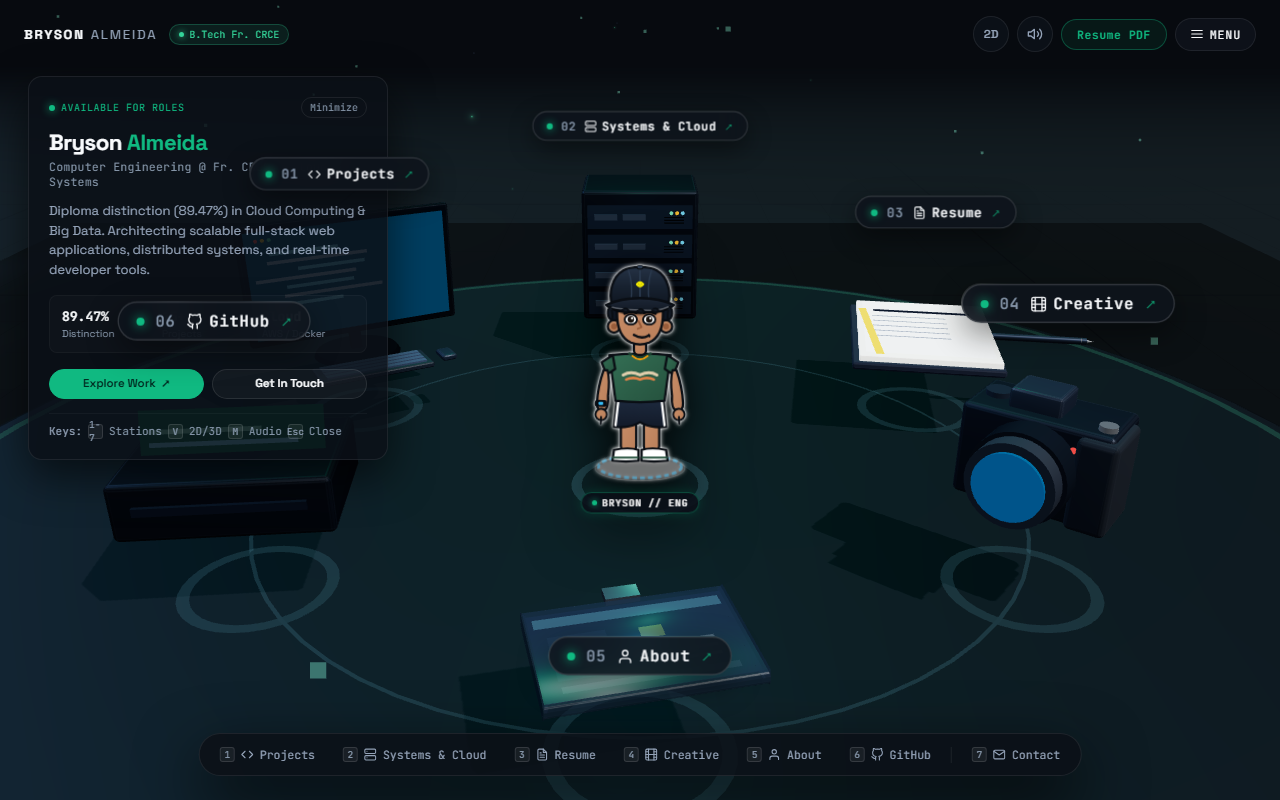
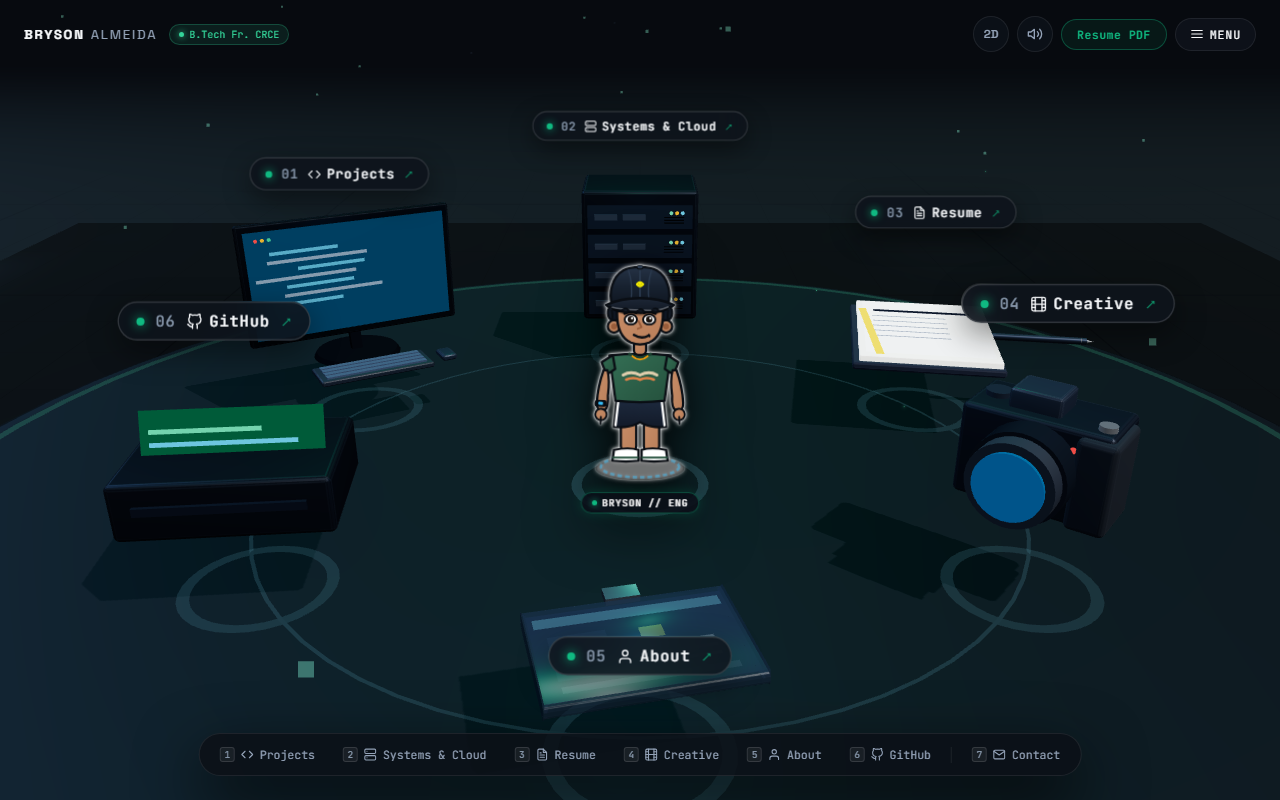
feat: remove floating hero card for clean unobstructed 3D view

Changed region(s): [[0.0312, 0.125, 0.3125, 0.5938], [0.25, 0.125, 0.2812, 0.1562], [0.2188, 0.8125, 0.25, 0.8438]]

diff --git a/src/App.jsx b/src/App.jsx
@@ -28,88 +28,6 @@ import {
 
 const Arrow = () => <span aria-hidden="true" style={{ display: "inline-block" }}>↗</span>;
 
-function HeroOverlay({ onExplore, onContact }) {
-  const [collapsed, setCollapsed] = useState(false);
-
-  return (
-    <aside className={`hero-overlay ${collapsed ? "collapsed" : ""}`} aria-label="Introduction">
-      <div className="hero-header">
-        <div className="hero-badge">
-          <span className="live-dot" />
-          <span>Available for Roles</span>
-        </div>
-        <button
-          className="hero-toggle-btn"
-          onClick={() => setCollapsed((v) => !v)}
-          aria-label={collapsed ? "Expand bio" : "Collapse bio"}
-        >
-          {collapsed ? "Expand" : "Minimize"}
-        </button>
-      </div>
-
-      {!collapsed && (
-        <>
-          <h1 className="hero-title">
-            Bryson <span>Almeida</span>
-          </h1>
-          <div className="hero-role">
-            Computer Engineering @ Fr. CRCE • Cloud & Systems
-          </div>
-          <p className="hero-bio">
-            Diploma distinction (89.47%) in Cloud Computing & Big Data. Architecting scalable full-stack web applications, distributed systems, and real-time developer tools.
-          </p>
-
-          <div className="hero-metrics">
-            <div className="hero-metric-item">
-              <span className="hero-metric-val">89.47%</span>
-              <span className="hero-metric-lbl">Distinction</span>
-            </div>
-            <div className="hero-metric-item">
-              <span className="hero-metric-val">15+</span>
-              <span className="hero-metric-lbl">Projects</span>
-            </div>
-            <div className="hero-metric-item">
-              <span className="hero-metric-val">Cloud</span>
-              <span className="hero-metric-lbl">AWS / Docker</span>
-            </div>
-          </div>
-
-          <div className="hero-actions">
-            <button className="btn btn-p" onClick={onExplore}>
-              Explore Work <Arrow />
-            </button>
-            <button className="btn btn-g" onClick={onContact}>
-              Get In Touch
-            </button>
-          </div>
-
-          <div
-            className="hero-shortcuts"
-            style={{
-              marginTop: "14px",
-              paddingTop: "10px",
-              borderTop: "1px solid var(--border-subtle)",
-              fontSize: "11px",
-              color: "var(--text-dim)",
-              display: "flex",
-              gap: "6px",
-              flexWrap: "wrap",
-              alignItems: "center",
-              fontFamily: "var(--mono)",
-            }}
-          >
-            <span style={{ color: "var(--text-muted)" }}>Keys:</span>
-            <span className="dock-key">1-7</span> Stations
-            <span className="dock-key">V</span> 2D/3D
-            <span className="dock-key">M</span> Audio
-            <span className="dock-key">Esc</span> Close
-          </div>
-        </>
-      )}
-    </aside>
-  );
-}
-
 function BottomDock({ stations, activeId, onSelect }) {
   return (
     <nav className="bottom-dock" aria-label="Workstations quick navigation">
@@ -1254,12 +1172,6 @@ export default function App() {
                   />
                 </Suspense>
               </Canvas>
-
-              {/* Desktop Floating Hero HUD */}
-              <HeroOverlay
-                onExplore={() => openPanel("projects")}
-                onContact={() => openPanel("contact")}
-              />
 
               {/* Workstations Quick Dock */}
               <BottomDock

diff --git a/src/index.css b/src/index.css
@@ -1386,132 +1386,8 @@ button {
 }
 
 /* ==========================================================================
-   DESKTOP FLOATING HERO HUD & WORKSTATIONS QUICK DOCK
+   WORKSTATIONS QUICK DOCK
    ========================================================================== */
-.hero-overlay {
-  position: absolute;
-  top: 76px;
-  left: 28px;
-  z-index: 15;
-  width: 360px;
-  max-width: calc(100vw - 56px);
-  background: rgba(11, 16, 23, 0.84);
-  backdrop-filter: blur(20px);
-  -webkit-backdrop-filter: blur(20px);
-  border: 1px solid var(--border);
-  border-radius: var(--radius-md);
-  padding: var(--space-5);
-  box-shadow: var(--shadow-lg);
-  pointer-events: auto;
-  transition: all var(--duration-normal) var(--ease-spring);
-}
-.hero-overlay:hover {
-  border-color: rgba(255, 255, 255, 0.16);
-}
-.hero-overlay.collapsed {
-  width: auto;
-  padding: 8px 14px;
-}
-.hero-header {
-  display: flex;
-  align-items: center;
-  justify-content: space-between;
-  margin-bottom: var(--space-3);
-}
-.hero-badge {
-  display: inline-flex;
-  align-items: center;
-  gap: 6px;
-  font-family: var(--mono);
-  font-size: var(--font-2xs);
-  color: var(--accent);
-  letter-spacing: 0.05em;
-  text-transform: uppercase;
-}
-.hero-badge .live-dot {
-  width: 6px;
-  height: 6px;
-  border-radius: 50%;
-  background: var(--accent);
-  box-shadow: 0 0 8px var(--accent);
-  animation: pulse-glow 2s infinite ease-in-out;
-}
-.hero-toggle-btn {
-  background: transparent;
-  border: 1px solid var(--border);
-  color: var(--text-dim);
-  cursor: pointer;
-  padding: 3px 8px;
-  font-family: var(--mono);
-  font-size: 10px;
-  border-radius: var(--radius-full);
-  transition: all var(--duration-fast);
-}
-.hero-toggle-btn:hover {
-  color: var(--text);
-  border-color: var(--border-hover);
-}
-.hero-title {
-  font-size: var(--font-xl);
-  font-weight: 700;
-  letter-spacing: -0.02em;
-  color: var(--text);
-  margin: 0 0 4px 0;
-  line-height: var(--leading-tight);
-}
-.hero-title span {
-  color: var(--accent);
-}
-.hero-role {
-  font-family: var(--mono);
-  font-size: var(--font-xs);
-  color: var(--text-dim);
-  margin-bottom: var(--space-3);
-  letter-spacing: 0.02em;
-}
-.hero-bio {
-  font-size: var(--font-sm);
-  color: var(--text-muted);
-  line-height: var(--leading-normal);
-  margin: 0 0 var(--space-4) 0;
-}
-.hero-metrics {
-  display: grid;
-  grid-template-columns: repeat(3, 1fr);
-  gap: var(--space-2);
-  padding: var(--space-3);
-  background: rgba(255, 255, 255, 0.02);
-  border: 1px solid var(--border-subtle);
-  border-radius: var(--radius-sm);
-  margin-bottom: var(--space-4);
-}
-.hero-metric-item {
-  display: flex;
-  flex-direction: column;
-}
-.hero-metric-val {
-  font-family: var(--mono);
-  font-size: var(--font-sm);
-  font-weight: 700;
-  color: var(--text);
-}
-.hero-metric-lbl {
-  font-size: 10px;
-  color: var(--text-dim);
-  margin-top: 2px;
-}
-.hero-actions {
-  display: flex;
-  gap: var(--space-2);
-}
-.hero-actions .btn {
-  flex: 1;
-  justify-content: center;
-  padding: 8px 12px;
-  font-size: var(--font-xs);
-}
-
-/* Quick Dock at bottom of 3D scene */
 .bottom-dock {
   position: fixed;
   bottom: 24px;
@@ -1590,9 +1466,6 @@ button {
 }
 
 @media (max-width: 900px) {
-  .hero-overlay {
-    display: none;
-  }
   .bottom-dock {
     display: none;
   }
